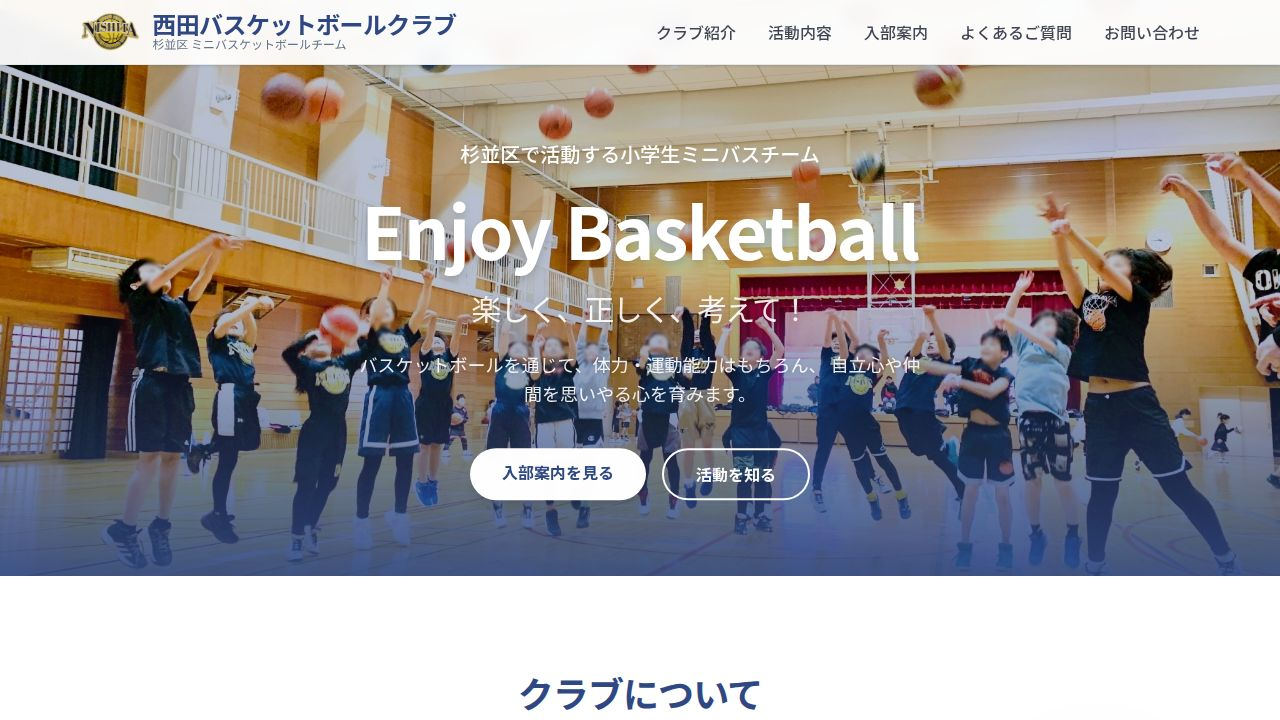
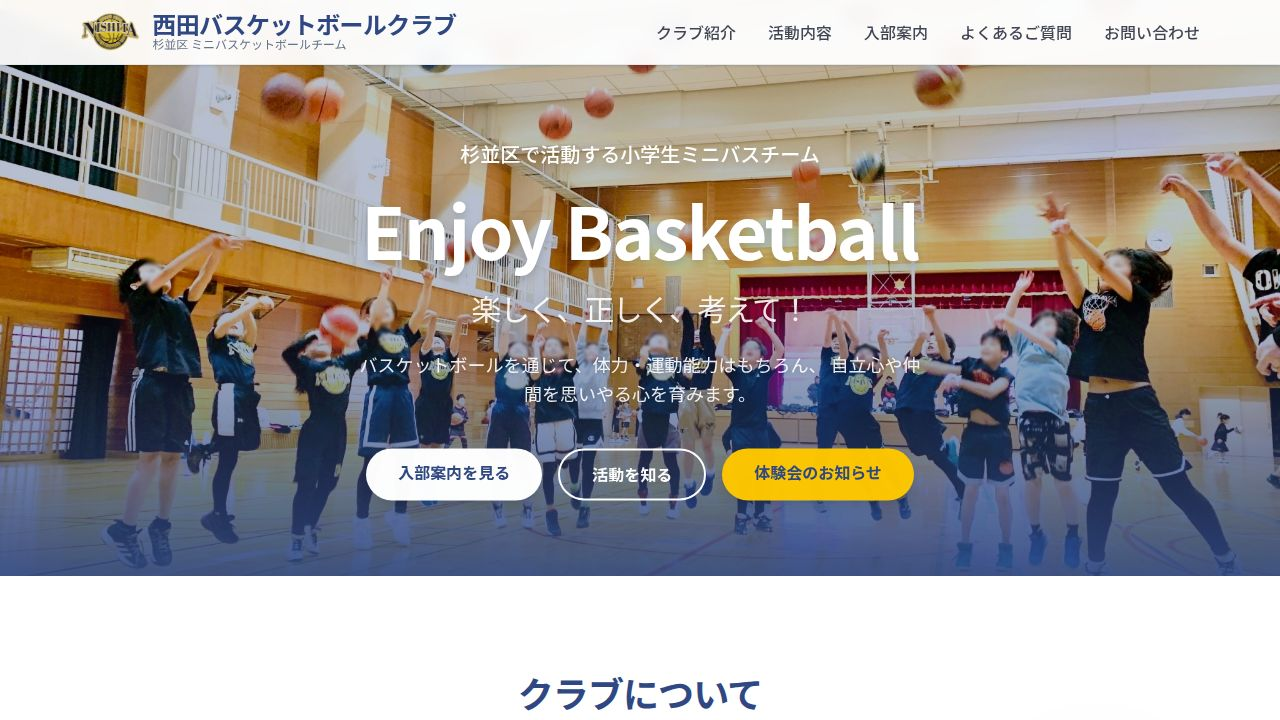
Add event announcement button to the hero section
Adds a new "体験会のお知らせ" button next to the "活動を知る" button in the hero section of the homepage, linking to the membership section.

Replit-Commit-Author: Agent
Replit-Commit-Session-Id: 404fce31-84ec-4e17-9b00-80dec2bca182
Replit-Commit-Checkpoint-Type: full_checkpoint
Replit-Commit-Event-Id: 796aadaa-4e71-4d8c-ba17-22006d71c25e
Replit-Commit-Screenshot-Url: https://storage.googleapis.com/screenshot-production-us-central1/133acfde-5a3c-45d2-8e54-7e967ee80b52/404fce31-84ec-4e17-9b00-80dec2bca182/YcgLl0M
Replit-Helium-Checkpoint-Created: true

Changed region(s): [[0.2812, 0.6111, 0.7188, 0.7028]]

diff --git a/client/src/pages/home.tsx b/client/src/pages/home.tsx
@@ -146,7 +146,7 @@ export default function Home() {
             バスケットボールを通じて、体力・運動能力はもちろん、
             自立心や仲間を思いやる心を育みます。
           </p>
-          <div className="flex flex-col sm:flex-row gap-4 justify-center animate-in slide-in-from-bottom-8 fade-in duration-700 delay-400">
+          <div className="flex flex-col sm:flex-row gap-4 justify-center flex-wrap animate-in slide-in-from-bottom-8 fade-in duration-700 delay-400">
             <a 
               href="#membership" 
               className="px-8 py-3 bg-white text-primary font-bold rounded-full hover:bg-gray-100 transition-all shadow-lg hover:shadow-xl transform hover:-translate-y-0.5"
@@ -158,6 +158,12 @@ export default function Home() {
               className="px-8 py-3 bg-transparent border-2 border-white text-white font-bold rounded-full hover:bg-white/10 transition-all"
             >
               活動を知る
+            </a>
+            <a 
+              href="#membership" 
+              className="px-8 py-3 bg-yellow-400 text-primary font-bold rounded-full hover:bg-yellow-300 transition-all shadow-lg hover:shadow-xl transform hover:-translate-y-0.5"
+            >
+              体験会のお知らせ
             </a>
           </div>
         </div>
